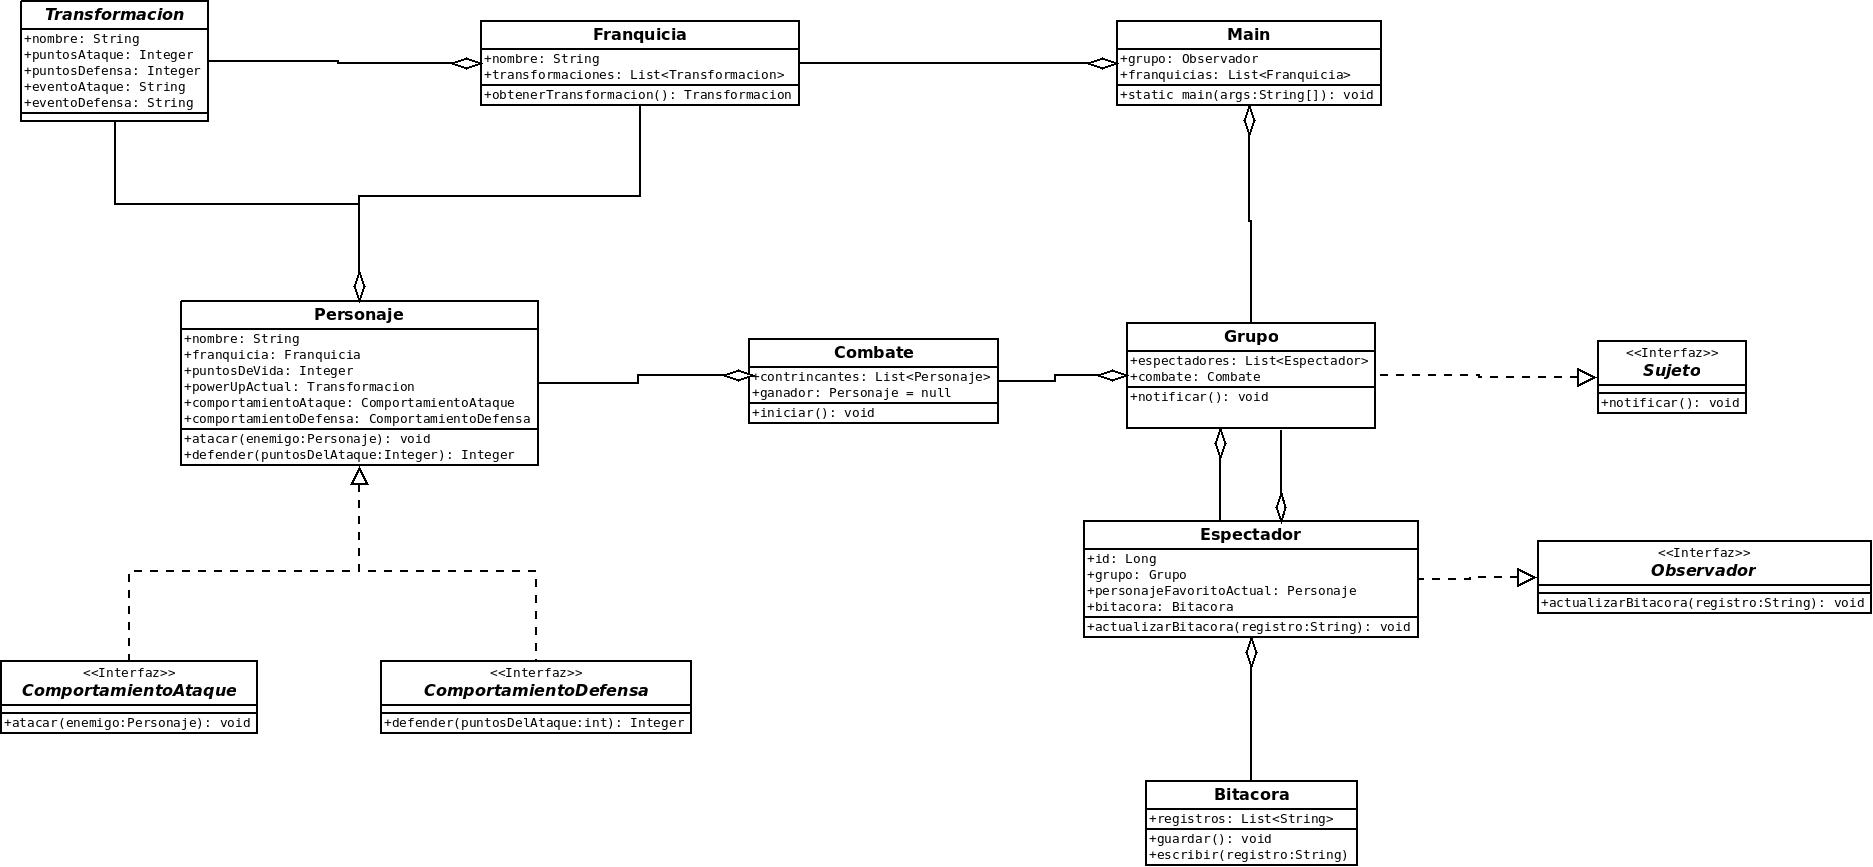
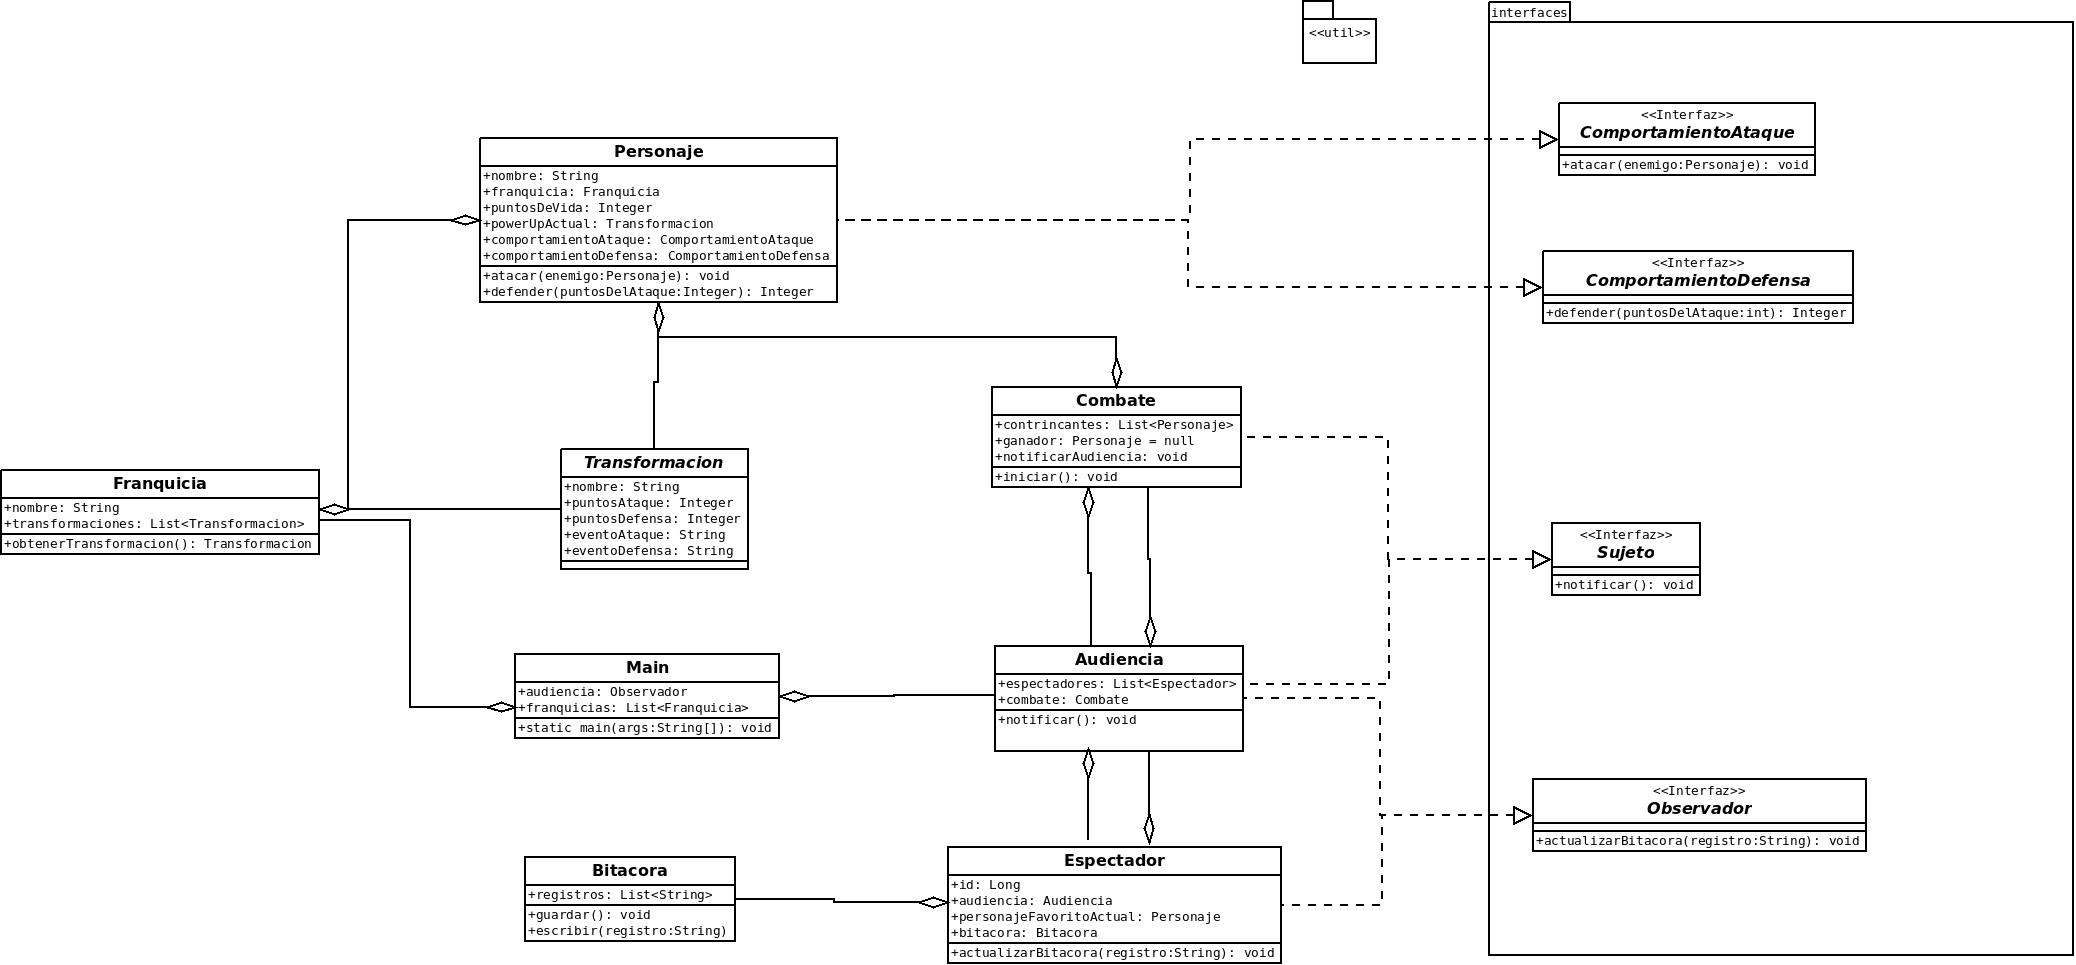
Avances

diff --git a/practicas/practica_1/src/p01/util/Constantes.java b/practicas/practica_1/src/p01/util/Constantes.java
@@ -13,22 +13,22 @@ public final class Constantes {
             "Charizardo",
             35, 
             15,
-            "ataco usando bola de fuego",
-            "se defendio usando alas escudo"
+            "bola de fuego",
+            "alas escudo"
         ),
         new Transformacion(
             "Chikorisa",
             40, 
             5,
-            "ataco usando latigo cepa",
-            "se defendio usando hojas inutiles"
+            "latigo cepa",
+            "hojas inutiles"
         ),
         new Transformacion(
             "Spritle",
             20, 
             25,
-            "ataco usando pistola de agua",
-            "se defendio usando caparazon de acero"
+            "pistola de agua",
+            "caparazon de acero"
         )
     );
 
@@ -37,22 +37,22 @@ public final class Constantes {
             "Fire Soul",
             35, 
             7,
-            "ataco usando lanzallamas",
-            "se defendio usando calentar armadura"
+            "lanzallamas",
+            "calentar armadura"
         ),
         new Transformacion(
             "Ice Pegasus",
             35, 
             25,
-            "ataco usando rayo congelador",
-            "se defendio usando barrera de hielo"
+            "rayo congelador",
+            "barrera de hielo"
         ),
         new Transformacion(
             "Wind Soul",
             35, 
             10,
-            "ataco usando torbellino",
-            "se defendio usando barrera de viento"
+            "torbellino",
+            "barrera de viento"
         )
     );
 
@@ -61,22 +61,22 @@ public final class Constantes {
             "Hyperlink",
             33, 
             15,
-            "ataco usando su espada",
-            "se defendio usando giro veloz"
+            "su espada",
+            "giro veloz"
         ),
         new Transformacion(
             "Ladrillo",
             20, 
             45,
-            "ataco cayendole en la cabeza",
-            "se defendio conviertiendose en ladrillo"
+            "caida en la cabeza",
+            "dureza de ladrillo"
         ),
         new Transformacion(
             "Don Kingkon",
             20, 
             10,
-            "ataco usando sus puños",
-            "se defendio cubriendose"
+            "sus puños",
+            "cubriendose"
         )
     );
 
@@ -106,5 +106,9 @@ public final class Constantes {
 
     public static void println(String line) {
         System.out.println(line);
+    }
+
+    public static int obtenerNumeroAleatorioEntre(int inicio, int fin) {
+        return (int) Math.random()*fin + inicio;
     }
 }

diff --git a/practicas/practica_1/src/p01/Combate.java b/practicas/practica_1/src/p01/Combate.java
@@ -3,11 +3,15 @@ package p01;
 import java.util.ArrayList;
 import java.util.List;
 
+import p01.interfaces.Sujeto;
+
 import static p01.util.Constantes.println;
 
-public class Combate {
+public class Combate implements Sujeto {
+
     public List<Personaje> contricantes;
     public Personaje ganador;
+    public Audiencia audiencia;
 
     public Personaje korby;
     public Personaje meganMan;
@@ -26,18 +30,49 @@ public class Combate {
     }
 
     public void iniciar() {
-        while (!combateTermino()) {
-            println("Korby ataca a MeganMan");
-            System.out.println(meganMan);
-            korby.atacar(meganMan);
-            korby.powerUpActual = korby.franquicia.obtenerTransformacion();
+        try {
+            int i = 0;
 
-            println("Korby ataca a Dittuu");
-            korby.atacar(dittuu);
+            while (!combateTermino()) {
+
+                if (i%4 == 0) {
+                    korby.powerUpActual =  korby.franquicia.obtenerTransformacion();
+                    
+                    println("Korby ha tomado un power up, se ha transformado en " + korby.powerUpActual.toString());
+                }
+                else {
+                    korby.powerUpActual = null;
+                }
+                
+                println("Korby ataca a MeganMan " + korby.eventoAtaque());
+                korby.atacar(meganMan);
+                println("MeganMan se defiende " + meganMan.eventoDefensa());
+
+                println("Korby ataca a Dittuu "  + korby.eventoAtaque());
+                korby.atacar(dittuu);
+                println("Dittuu se defiende " + dittuu.eventoDefensa());
+
+                Thread.sleep(300);
+
+                i++;
+            }
+
+            notificar("EL COMBATE HA TERMINADO");
+            notificar("HA GANADO " + ganador.toString());
+
+        }
+        catch (Exception e) {
+            e.printStackTrace();
         }
     }
 
     public boolean combateTermino() {
+        println("\n####################################");
+        println("Vida de Korby " + korby.puntosDeVida);
+        println("Vida de MeganMan " + meganMan.puntosDeVida);
+        println("Vida de Dittuu " + dittuu.puntosDeVida);
+        println("####################################\n");
+
 
         // Checamos que solo quede uno con vida
         if (korby.estaVivo() && !meganMan.estaVivo() && !dittuu.estaVivo()) {
@@ -53,4 +88,10 @@ public class Combate {
         
         return false;
     }
+
+    @Override
+    public void notificar(String evento) {
+        this.audiencia.notificar(evento);
+    }
+    
 }

diff --git a/practicas/practica_1/src/p01/Main.java b/practicas/practica_1/src/p01/Main.java
@@ -12,7 +12,7 @@ import static p01.util.Constantes.println;
 public class Main {
 
     public List<Espectador> espectadores;
-    public Grupo grupo;
+    public Audiencia audiencia;
 
     public static void main(String[] args) {
         Main main = new Main();
@@ -35,9 +35,9 @@ public class Main {
         espectadores = new ArrayList<>();
         espectadores.addAll(
             List.of(
-                new Espectador(1L, grupo, null, new Bitacora()),
-                new Espectador(2L, grupo, null, new Bitacora()),
-                new Espectador(3L, grupo, null, new Bitacora())
+                new Espectador(1L, audiencia, null, new Bitacora()),
+                new Espectador(2L, audiencia, null, new Bitacora()),
+                new Espectador(3L, audiencia, null, new Bitacora())
             )
         );
 
@@ -61,8 +61,9 @@ public class Main {
 
     public void inicializarCombate() {
         Combate combate = new Combate(Constantes.PERSONAJES);
-        grupo = new Grupo(espectadores, combate);
-        grupo.combate.iniciar();
+        audiencia = new Audiencia(espectadores, combate);
+        combate.audiencia = audiencia;
+        audiencia.combate.iniciar();
     }
 
 }

diff --git a/practicas/practica_1/src/p01/Personaje.java b/practicas/practica_1/src/p01/Personaje.java
@@ -20,13 +20,14 @@ public class Personaje implements ComportamientoAtaque, ComportamientoDefensa {
         this.puntosDeVida = 1000;
         this.powerUpActual = null;
         this.nombre = nombre;
+        this.puntosAtaqueBase = puntosAtaqueBase;
+        this.puntosDefensaBase = puntosDefensaBase;
     }
 
     @Override
     public void atacar(Personaje enemigo) {
-        println(enemigo.toString());
-        enemigo.puntosDeVida -= enemigo.defender(this.obtenerPuntosAtaque());
-        println(enemigo.powerUpActual.toString());
+        int puntosAtaque = this.obtenerPuntosAtaque();
+        enemigo.puntosDeVida -= enemigo.defender(puntosAtaque);
     }
 
     public Integer obtenerPuntosAtaque() {
@@ -57,5 +58,13 @@ public class Personaje implements ComportamientoAtaque, ComportamientoDefensa {
 
     public boolean estaVivo() {
         return this.puntosDeVida > 0;
+    }
+
+    public String eventoAtaque() {
+        return powerUpActual != null ? "usando " + powerUpActual.eventoAtaque : "";
+    }
+
+    public String eventoDefensa() {
+        return powerUpActual != null ? "usando " + powerUpActual.eventoDefensa : "";
     }
 }

diff --git a/practicas/practica_1/src/p01/Espectador.java b/practicas/practica_1/src/p01/Espectador.java
@@ -7,7 +7,7 @@ import p01.interfaces.Observador;
 public class Espectador implements Observador {
 
     public Long id;
-    public Grupo grupo;
+    public Audiencia audiencia;
     public Personaje personajeFavoritoActual;
     public Bitacora bitacora;
 
@@ -16,17 +16,17 @@ public class Espectador implements Observador {
     }
 
     public Espectador(Long id,
-                        Grupo grupo,
+                        Audiencia audiencia,
                         Personaje personajeFavoritoActual,
                         Bitacora bitacora) {
         this.id = id;
-        this.grupo = grupo;
+        this.audiencia = audiencia;
         this.personajeFavoritoActual = personajeFavoritoActual;
         this.bitacora = bitacora;
     }
 
     @Override
-    public void actualizarBitacora(String registro) {
+    public void actualizar(String registro) {
         bitacora.escribir(registro);
     }
 

diff --git a/practicas/practica_1/src/p01/Audiencia.java b/practicas/practica_1/src/p01/Audiencia.java
@@ -1,0 +1,30 @@
+package p01;
+import java.util.ArrayList;
+import java.util.List;
+
+import p01.interfaces.Observador;
+import p01.interfaces.Sujeto;
+
+public class Audiencia implements Sujeto, Observador {
+
+    public List<Espectador> espectadores;
+    public Combate combate;
+
+    public Audiencia(List<Espectador> espectadores, Combate combate) {
+        this.espectadores = new ArrayList<>();
+        this.combate = combate;
+    }
+
+    @Override
+    public void notificar(String evento) {
+        espectadores.forEach(
+            espectador -> espectador.actualizar(evento)
+        );
+    }
+
+    @Override
+    public void actualizar(String registro) {
+        notificar(registro);
+    }
+    
+}

diff --git a/practicas/practica_1/src/p01/Franquicia.java b/practicas/practica_1/src/p01/Franquicia.java
@@ -19,4 +19,9 @@ public class Franquicia {
     public Transformacion obtenerTransformacion() {
         return transformaciones.get(0);
     }
+
+    @Override
+    public String toString() {
+        return this.nombre;
+    }
 }

diff --git a/practicas/practica_1/src/p01/Transformacion.java b/practicas/practica_1/src/p01/Transformacion.java
@@ -19,4 +19,9 @@ public class Transformacion {
         this.eventoAtaque = eventoAtaque;
         this.eventoDefensa = eventoDefensa;
     }
+
+    @Override
+    public String toString() {
+        return this.nombre;
+    }
 }

diff --git a/practicas/practica_1/src/p01/interfaces/Observador.java b/practicas/practica_1/src/p01/interfaces/Observador.java
@@ -1,5 +1,5 @@
 package p01.interfaces;
 
 public interface Observador {
-    void actualizarBitacora(String registro);
+    void actualizar(String registro);
 }

diff --git a/practicas/practica_1/src/p01/interfaces/Sujeto.java b/practicas/practica_1/src/p01/interfaces/Sujeto.java
@@ -1,5 +1,5 @@
 package p01.interfaces;
 
 public interface Sujeto {
-    void notificar();
+    void notificar(String evento);
 }
